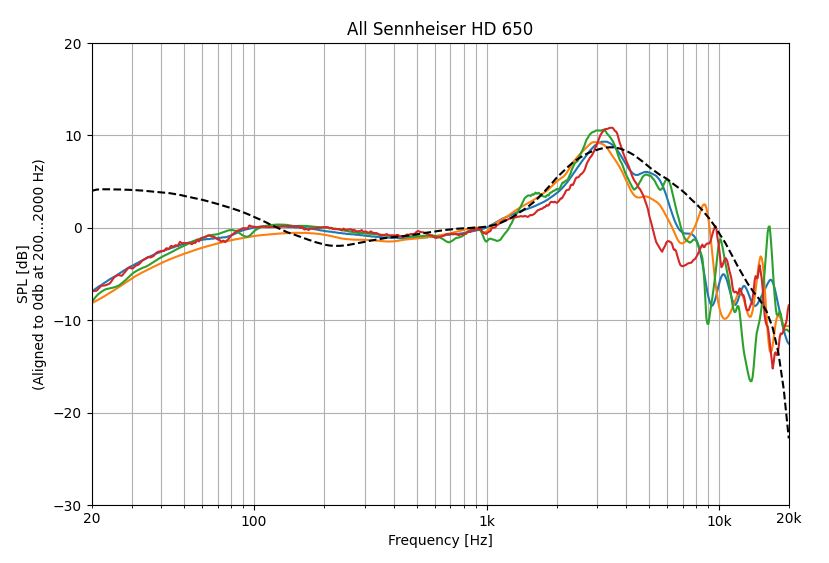
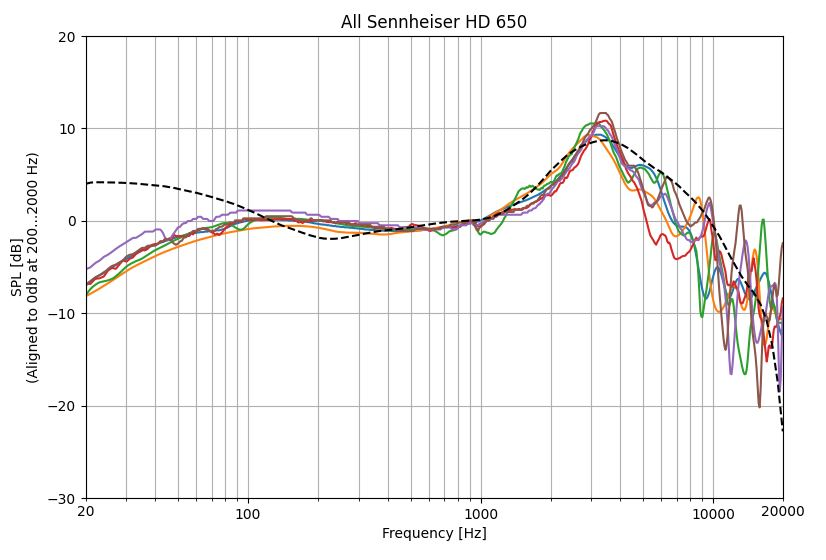
Add new --compensate option

Changed region(s): [[0.0, 0.0304, 0.9685, 0.9714], [0.3632, 0.6982, 0.3935, 0.7589]]

diff --git a/FreqRespGraph.py b/FreqRespGraph.py
@@ -4,6 +4,7 @@ import argparse
 import glob
 import math
 import os
+import numpy as np
 
 from matplotlib.ticker import FuncFormatter
 from matplotlib.ticker import LogFormatter
@@ -47,7 +48,7 @@ def on_pick(event):
     fig.canvas.draw()
 
 # Draw given CSV file frequency response
-def drawCurve(filename, ax, alignmin, alignmax, isref):
+def drawCurve(filename, ax, alignmin, alignmax, isref, xref = None, yref = None):
     #  X/Y data to be drawn 
     x = []
     y = []
@@ -60,10 +61,33 @@ def drawCurve(filename, ax, alignmin, alignmax, isref):
     # Read CSV file
     csvfile = open(filename, newline='')
     c = csv.reader(csvfile)
+    if xref != None:
+        xreflen = len(xref)
+    nrows = 0
     for row in c:
         try:
             xf = float(row[0])
             yf = float(row[1])
+            if xref != None:
+                # Compensate values according to reference curve
+                if (nrows < xreflen) and (xf == xref[nrows]):
+                    # Simple fast match found => use it to save time
+                    yf = yf - yref[nrows]
+                else:
+                    compindex = np.searchsorted(xref,xf)
+                    if compindex >= xreflen:
+                        # Out of xrange of reference curve (value too big) => skip data point
+                        continue
+                    if xref[compindex] == xf:
+                        # Exact match in reference curve found => use its value
+                        yf = yf - yref[compindex]
+                    else:
+                        if compindex > 0:
+                            # Use linear interpolation of reference curve 
+                            yf = yf - (((yref[compindex] - yref[compindex-1])/(xref[compindex] - xref[compindex-1]) * (xf-xref[compindex-1])) + yref[compindex-1])
+                        else:
+                            # Out of xrange of reference curve (value too small) => skip data point
+                            continue
             if alignmin > 0:
                 if alignmax < 0:
                     # Align to frequency point
@@ -78,6 +102,7 @@ def drawCurve(filename, ax, alignmin, alignmax, isref):
                         alignCount = alignCount + 1
             x.append(xf)
             y.append(yf)
+            nrows = nrows + 1
         except ValueError as ve:
             print( 'Ignoring: ', row, 'in ' , filename)
     csvfile.close()
@@ -114,6 +139,7 @@ parser.add_argument('--alignmax', nargs='?', type=float, default='-1', help='Ali
 parser.add_argument('--hidealignment', action='store_true', help='Do not show aligment arguments in Y-Axis label, default off')
 parser.add_argument('--refcurve', nargs='?', default='', help='Plot given CSV file as dotted reference curve, default off')
 parser.add_argument('--nolegend', action='store_true', help='Do not show curves legend, default off')
+parser.add_argument('--compensate', action='store_true', help='Compensate according to given reference curve, default off')
 parser.add_argument('--title', nargs='?', default='', help='Set graph title, default off')
 parser.add_argument('--files', nargs='*',  required=True, help='CSV filenames to be plotted (supports filename wildcards)')
 args = parser.parse_args()
@@ -122,16 +148,34 @@ print (args )
 # Initialize layout
 fig, ax = plt.subplots(figsize = (9, 6))
 
+xref = None
+yref = None
+if args.refcurve != '' and args.compensate:
+    #  Read reference curve data for compensation
+    xref = []
+    yref = []
+    csvfile = open(args.refcurve, newline='')
+    c = csv.reader(csvfile)
+    for row in c:
+        try:
+            xf = float(row[0])
+            yf = float(row[1])
+            xref.append(xf)
+            yref.append(yf)
+        except ValueError as ve:
+            print( 'Ignoring: ', row, 'in ' , args.refcurve)
+    csvfile.close()
+
 # Draw curve for each given CSV
 lines = []
 for filepattern in args.files:
     files = glob.glob(filepattern)
     for file in files:
-        drawCurve(file, ax, args.alignmin, args.alignmax, False)
+        drawCurve(file, ax, args.alignmin, args.alignmax, False, xref, yref)
 
 # Draw refernace curve if given
 if args.refcurve != '':
-    drawCurve(args.refcurve, ax, args.alignmin, args.alignmax, True)
+    drawCurve(args.refcurve, ax, args.alignmin, args.alignmax, True, xref, yref)
 
 # Draw Legend if not disabled
 if not args.nolegend:
@@ -161,7 +205,10 @@ ax.xaxis.set_minor_formatter(formatter2)
 
 # Set Axis labels
 ax.set_xlabel('Frequency [Hz]')
-ylabel = 'SPL [dB]'
+if args.refcurve != '' and args.compensate:
+    ylabel = 'Compensated SPL [dB]'
+else:
+    ylabel = 'SPL [dB]'
 if not args.hidealignment and args.alignmin > 0:
     if args.alignmax > 0:
         ylabel = ylabel + '\n(Aligned to 0db at ' + str(int(args.alignmin)) + '...' + str(int(args.alignmax)) + ' Hz)'

diff --git a/README.md b/README.md
@@ -1,10 +1,10 @@
 # FreqRespGraph
 
-FreqRespGraph is a simple tool to plot and compare frequency response measurement data from CSV files. It is written in [Python 3](https://www.python.org/) using [matplotlib](https://matplotlib.org/).
+FreqRespGraph is a simple tool to plot and compare frequency response measurement data from CSV files. It is written in [Python 3](https://www.python.org/) using [matplotlib](https://matplotlib.org/) and [numpy](https://numpy.org/).
 
 # Installation
 1. Download and install Python 3.X on your system: [https://www.python.org/downloads/](https://www.python.org/downloads/)
-1. Open a shell / command prompt and install matplotlib: `pip install matplotlib`
+1. Open a shell / command prompt and install matplotlib and numphy: `pip install matplotlib` `pip install numpy`
 1. Optionally install git command line client: [https://github.com/git-guides/install-git](https://github.com/git-guides/install-git)
 1. Download FreqRespGraph:
    - Clone git repository: `git clone https://github.com/rwhomeaudio/FreqRespGraph` or
@@ -14,12 +14,12 @@ FreqRespGraph is a simple tool to plot and compare frequency response measuremen
 ```
 python FreqRespGraph.py -h
 usage: FreqRespGraph [-h] [--ymin [YMIN]] [--ymax [YMAX]] [--xmin [XMIN]] [--xmax [XMAX]] [--alignmin [ALIGNMIN]]
-                     [--alignmax [ALIGNMAX]] [--hidealignment] [--refcurve [REFCURVE]] [--nolegend] [--title [TITLE]]
+                     [--alignmax [ALIGNMAX]] [--hidealignment] [--refcurve [REFCURVE]] [--nolegend] [--compensate] [--title [TITLE]]
                      --files [FILES ...]
 
 FreqRespGraph can plot single or multiple frequency response graphs given as CSV data files in a single graph. X and Y Axis
 limit can be configured. Data can be aligned to 0dB at a given frequency or frequency range. In addition a reference curve
-can be specified. The CSV data files needs to contain 2 rows with frequency and SPL.
+can be specified. Optionally all curves can be compensated according to the specified refernece curve. The CSV data files needs to contain 2 rows with frequency and SPL.
 
 options:
   -h, --help            show this help message and exit
@@ -35,6 +35,7 @@ options:
   --refcurve [REFCURVE]
                         Plot given CSV file as dotted reference curve, default off
   --nolegend            Do not show curves legend, default off
+  --compensate          Compensate according to given reference curve, default off
   --title [TITLE]       Set graph title, default off
   --files [FILES ...]   CSV filenames to be plotted (supports filename wildcards)
   ```
@@ -49,13 +50,16 @@ The following examples use the headphone measurment and target curves provided b
 ![Sennheiser3](./examples/Sennheiser3.JPG) 
 7. All Rtings measurments without legend: `python FreqRespGraph\FreqRespGraph.py --alignmin 200 --alignmax 2000 --title "All Rtings Sennheiser measurements" --refcurve "AutoEq\targets\Harman over-ear 2018.csv" --nolegend --title "All Rtings measurements" --files AutoEq\measurements\Rtings\data\over-ear\*.csv`
 ![AllRtings](./examples/AllRtings.JPG) 
-9. All Sennheiser HD 650 measurements: `python FreqRespGraph\FreqRespGraph.py --alignmin 200 --alignmax 2000 --title "All Rtings Sennheiser measurements" --refcurve "AutoEq\targets\Harman over-ear 2018.csv" --nolegend --title "All Sennheiser HD 650" --files "AutoEq\measurements\oratory1990\data\over-ear\Sennheiser HD 650.csv" "AutoEq\measurements\Rtings\data\over-ear\Sennheiser HD 650.csv" "AutoEq\measurements\Kuulokenurkka\data\over-ear\Sennheiser HD 650.csv" "AutoEq\measurements\Innerfidelity\data\over-ear\Sennheiser HD 650.csv" "AutoEq\measurements\Headphone.com Legacy\data\over-ear\Sennheiser HD 650.csv""AutoEq\measurements\Headphone.com Legacy\data\over-ear\Sennheiser HD 650 (balanced).csv"`
+9. All Sennheiser HD 650 measurements: `python FreqRespGraph\FreqRespGraph.py --alignmin 200 --alignmax 2000 --refcurve "AutoEq\targets\Harman over-ear 2018.csv" --nolegend --title "All Sennheiser HD 650" --files "AutoEq\measurements\oratory1990\data\over-ear\Sennheiser HD 650.csv" "AutoEq\measurements\Rtings\data\over-ear\Sennheiser HD 650.csv" "AutoEq\measurements\Kuulokenurkka\data\over-ear\Sennheiser HD 650.csv" "AutoEq\measurements\Innerfidelity\data\over-ear\Sennheiser HD 650.csv" "AutoEq\measurements\Headphone.com Legacy\data\over-ear\Sennheiser HD 650.csv" "AutoEq\measurements\Headphone.com Legacy\data\over-ear\Sennheiser HD 650 (balanced).csv"`
 ![SennheiserHD650](./examples/SennheiserHD650.JPG)
+11. All Sennheiser HD 650 measurements compensated to harman reference curve: `python FreqRespGraph\FreqRespGraph.py --alignmin 200 --alignmax 2000 --title "All Rtings Sennheiser measurements" --refcurve "AutoEq\targets\Harman over-ear 2018.csv" --compensate --nolegend --title "All Sennheiser HD 650 compensated" --files "AutoEq\measurements\*\*\*\Sennheiser HD 650.csv"`
+![SennheiserHD650_2](./examples/SennheiserHD650_2.JPG)
 
 # Tips
 1. Often the legend on the right side doesn't fit in the plot. You can just disable it using `--nolegend` or adjust the size by using the "right" slider in "Configure subplots" menu. You can click on the legend and drag it to some other location.
 2. You can click on the line symbol of a legend entry. This first click will highlight the corresponding curve, the second will hide the curve and the third click switches it back to the default.
 3. Complex wildcard file patterns could be used. It is implemented using [glob](https://docs.python.org/3/library/glob.html). E.g. something like `--files AutoEq\measurements\*\*\*\Sennheiser*.csv` can be used.
+4. Compensation according to reference curve is faster if reference curve and data curve contain the exact same frequencies. Otherwise interpolation of the reference curve data is used to compensate the data curves. In this case data which is not within the frequency range of the reference curve will not be displayed. 
   
 # References
 1. Jaakko Pasanen, AutoEq, https://github.com/jaakkopasanen/AutoEq, https://autoeq.app/
